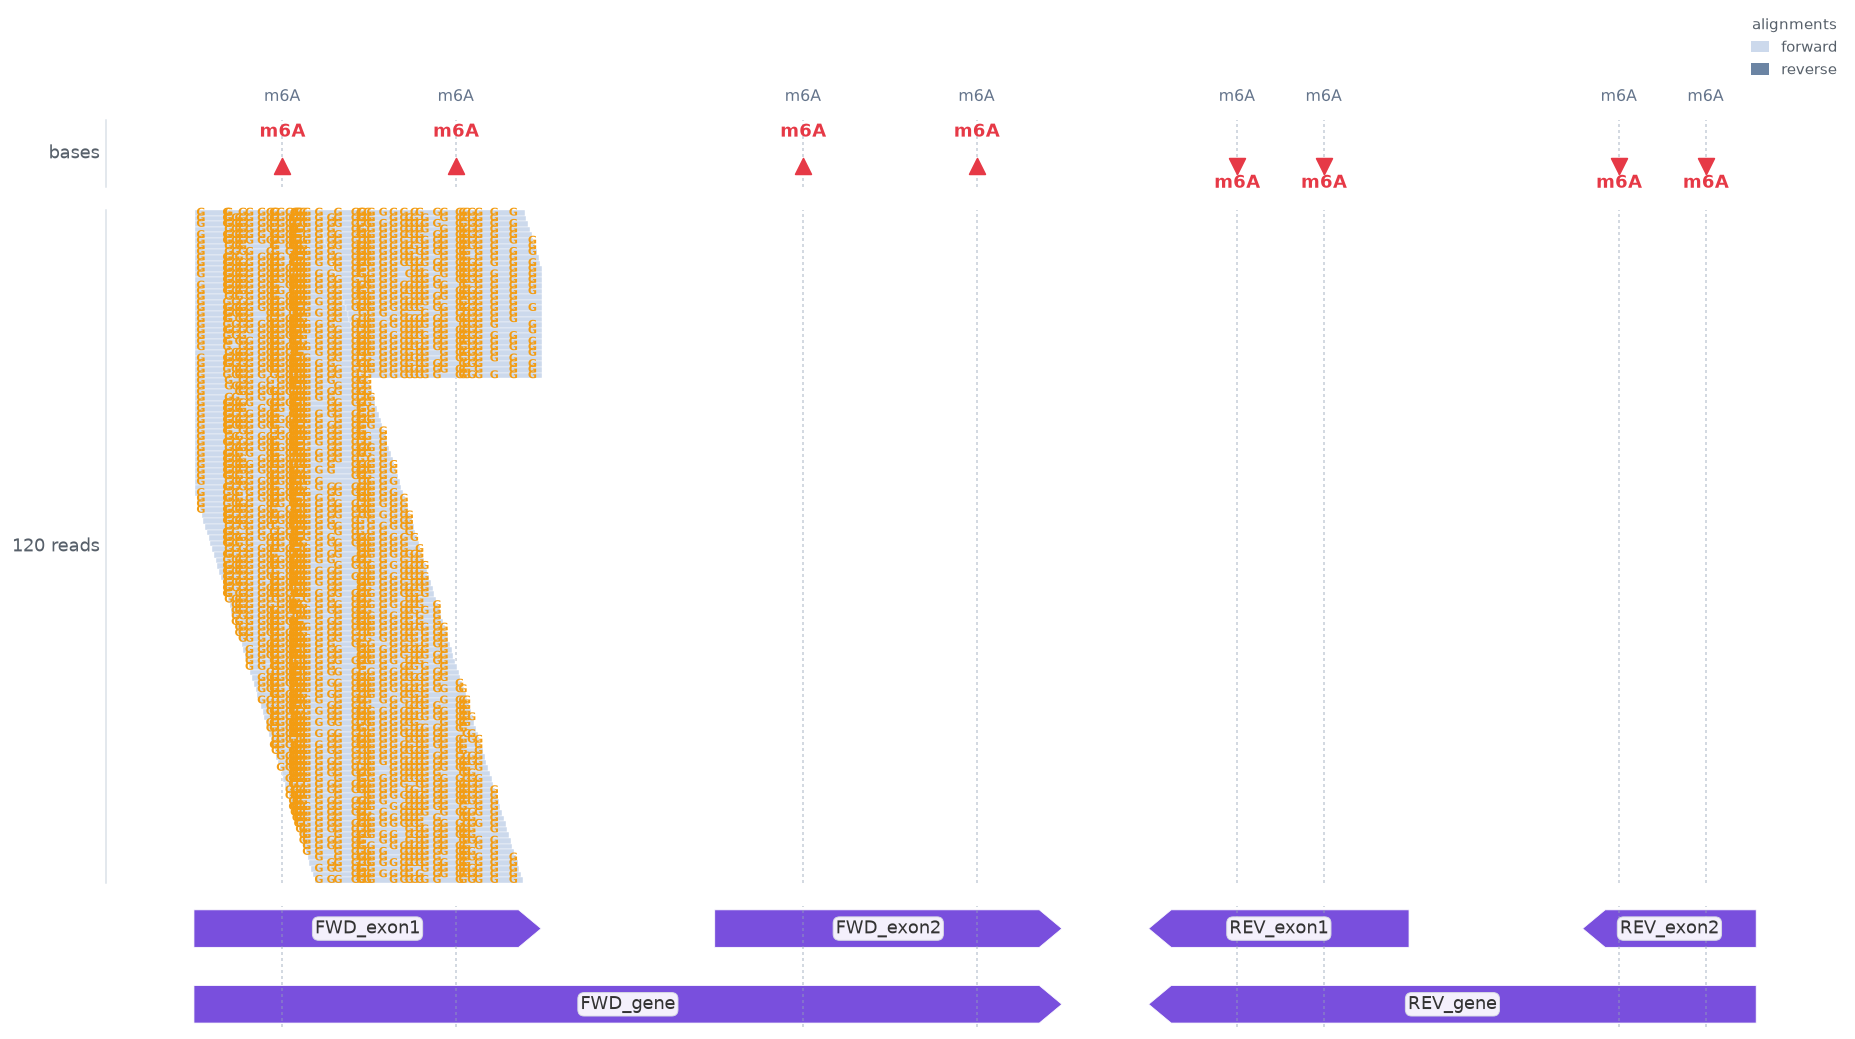
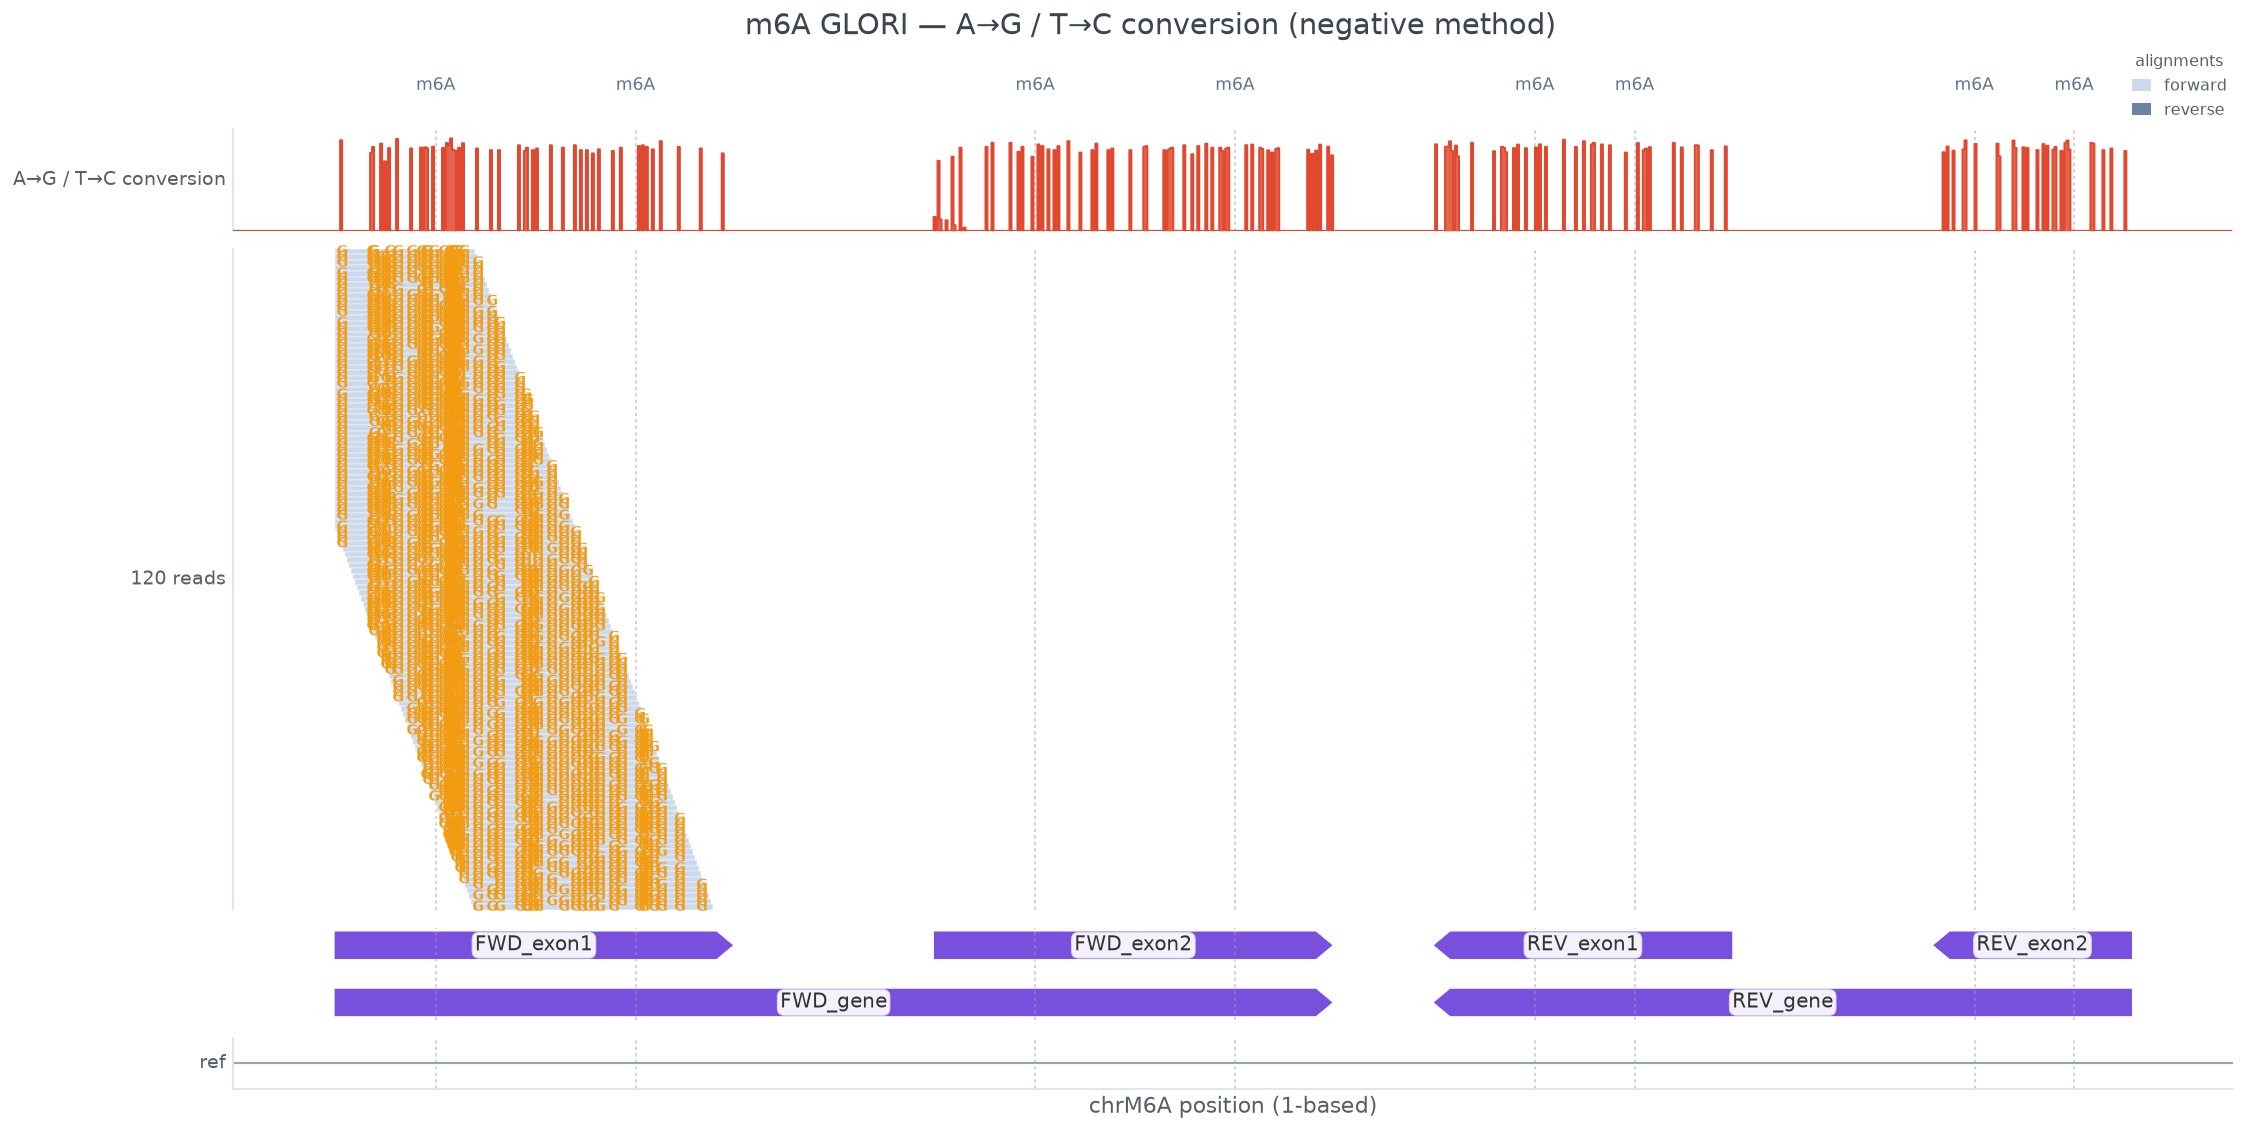
Redesign m6A GLORI example: add conversion track + base-resolution zoom
- basemod(): add a per-base A->G / T->C conversion (variant_fraction) track on
  top, strand-coloured reads with converted bases in red, gene + reference row
  + m6A site markers, and a descriptive title. Shows GLORI as a negative method
  (conversion dips to ~0% at m6A sites).
- basemod_zoom(): new base-resolution figure at chrM6A:250 & 350 so A->G
  conversions are readable letter-by-letter while the m6A sites keep their A
  (grey) — with a colour-coded reference row.
- README: add the zoom figure and update the m6A caption.
- Re-export paths/sites as module constants in generate_gallery.py.

diff --git a/examples/generate_gallery.py b/examples/generate_gallery.py
@@ -34,6 +34,17 @@ SITES = os.path.join(DATA, "sites.bed")
 BASEMOD = os.path.join(DATA, "basemods.bed")
 VCF = os.path.join(DATA, "variants.vcf")
 
+# m6A GLORI synthetic data (two genes on opposite strands)
+M6A_BAM = os.path.join(DATA, "m6a", "m6a_reads.bam")
+M6A_REF = os.path.join(DATA, "m6a", "m6a_genome.fa")
+M6A_GB = os.path.join(DATA, "m6a", "m6a_annotation.gb")
+
+# m6A sites: forward gene (A, +) and reverse gene (T, -)
+M6A_SITES = {
+    250: "m6A", 350: "m6A", 550: "m6A", 650: "m6A",   # forward gene (A→G)
+    800: "m6A", 850: "m6A", 1020: "m6A", 1070: "m6A",  # reverse gene (T→C)
+}
+
 HERO_REGION = "chrTest:6,930-7,200"
 
 # show structural gene features only (drops the tiny point 'variation' features,
@@ -128,33 +139,57 @@ def color_mapq():
 
 
 def basemod():
-    """Strand-aware base-modification track with GLORI-style mutations on both strands."""
-    # Use the m6A GLORI synthetic data with genes on both strands
-    M6A_BAM = os.path.join(REPO, "data", "m6a", "m6a_reads.bam")
-    M6A_REF = os.path.join(REPO, "data", "m6a", "m6a_genome.fa")
-    M6A_GB = os.path.join(REPO, "data", "m6a", "m6a_annotation.gb")
-    
-    # Show region with both forward (200-720) and reverse (750-1100) genes
-    # GLORI: A→G = unmodified, A = m6A protected (negative method)
+    """m6A GLORI overview: strand-coloured reads + per-base A→G / T→C conversion.
+
+    GLORI is a *negative* method: the reagent converts every unmodified A→G (and
+    its reverse-strand complement T→C), but an m6A protects its own base so it
+    stays A (or T on the complement). The per-base conversion track therefore
+    dips to ~0% exactly at the m6A sites — the places that keep the reference
+    base. Reads are coloured by strand and the converted bases are shown red.
+    """
     view = (
-        GenomeView(region="chrM6A:150-1150", reference=M6A_REF, figsize=(16, 9))
-        .add_base_mods({
-            # Forward gene m6A sites (A stays as A = m6A protected)
-            250: (1, "m6A"), 350: (1, "m6A"), 550: (1, "m6A"), 650: (1, "m6A"),
-            # Reverse gene m6A sites (T stays as T = m6A protected on complement)
-            800: (-1, "m6A"), 850: (-1, "m6A"), 1020: (-1, "m6A"), 1070: (-1, "m6A"),
-        })
+        GenomeView(
+            region="chrM6A:150-1150",
+            reference=M6A_REF,
+            figsize=(17, 9),
+            title="m6A GLORI — A→G / T→C conversion (negative method)",
+        )
+        .add_variant_fraction(M6A_BAM, reference=M6A_REF, label="A→G / T→C conversion")
         .add_reads(M6A_BAM, reference=M6A_REF, color_by="strand", group_by="strand",
-                   max_reads=150, show_all_bases=False, base_fontsize=6.5, weight=5.0,
+                   max_reads=120, show_all_bases=False, base_fontsize=7.5, weight=6.5,
                    link_mates=True, view_as_pairs=True,
-                   mismatch_colors={"A>G": "#e63946", "T>C": "#e63946"})  # Red for GLORI mutations
+                   mismatch_colors={"A>G": "#e63946", "T>C": "#e63946"})  # red = converted
         .add_features(M6A_GB, min_feature_length=3)
-        .add_sites({
-            250: "m6A", 350: "m6A", 550: "m6A", 650: "m6A",  # forward gene
-            800: "m6A", 850: "m6A", 1020: "m6A", 1070: "m6A",  # reverse gene
-        })
+        .add_sequence(M6A_REF)
+        .add_sites(M6A_SITES)
     )
-    save(view, "gallery_basemod.png", dpi=120)
+    save(view, "gallery_basemod.png", dpi=130)
+
+
+def basemod_zoom():
+    """Base-resolution zoom at the forward-gene m6A sites.
+
+    Every read base is drawn, so the A→G conversions (red) are readable
+    letter-by-letter while the m6A sites (chrM6A:250, 350) keep their A and are
+    left grey — the protected signal. A colour-coded reference row lines the
+    bottom.
+    """
+    view = (
+        GenomeView(
+            region="chrM6A:235-365",
+            reference=M6A_REF,
+            figsize=(15, 6),
+            title="Zoom — A→G conversions around m6A sites chrM6A:250 & 350",
+        )
+        .add_reads(M6A_BAM, reference=M6A_REF, color_by="strand", group_by="strand",
+                   max_reads=45, show_all_bases=True, base_fontsize=8.5, weight=5.5,
+                   link_mates=True, view_as_pairs=True,
+                   mismatch_colors={"A>G": "#e63946", "T>C": "#e63946"})
+        .add_features(M6A_GB, min_feature_length=3)
+        .add_sequence(M6A_REF)
+        .add_sites({250: "m6A", 350: "m6A"})
+    )
+    save(view, "gallery_basemod_zoom.png", dpi=130)
 
 
 def overlay():
@@ -283,6 +318,7 @@ def main():
     color_readgroup()
     color_mapq()
     basemod()
+    basemod_zoom()
     overlay()
     hic()
     compare()

diff --git a/README.md b/README.md
@@ -99,12 +99,19 @@ draws a mate connector and `view_as_pairs` joins a fragment on one row (IGV
 
 Strand-aware m6A / m5C / … markers (`add_base_mods`), reads coloured by the
 modification they span (`color_by="basemod"`), per-base **variant fraction**,
-**modification stoichiometry** and IUPAC **motif** (`DRACH`) tracks. The gallery
-below shows a GLORI negative-method signal: reads coloured by **strand** while
-`mismatch_colors` highlights the unmodified A→G / T→C conversions in red (the
-m6A-protected positions stay A/T).
+**modification stoichiometry** and IUPAC **motif** (`DRACH`) tracks.
 
-![base modifications](examples/gallery_basemod.png)
+The m6A example below uses **GLORI** (a *negative* method): the reagent converts
+every unmodified A→G (and its reverse-strand complement T→C), but an m6A keeps
+its own base. The per-base **conversion** track dips to ~0% exactly at the m6A
+sites, and reads are coloured by strand with the converted bases in red.
+
+![m6A GLORI: converted reads + per-base A→G / T→C conversion](examples/gallery_basemod.png)
+
+Base-resolution zoom at the forward-gene m6A sites — the A→G conversions are
+readable letter-by-letter while the m6A sites (chrM6A:250 & 350) keep their A:
+
+![m6A GLORI zoom: A→G conversions around m6A sites](examples/gallery_basemod_zoom.png)
 
 ![per-base VAF / mod stoichiometry / motifs](examples/gallery_epigenetics.png)
 
